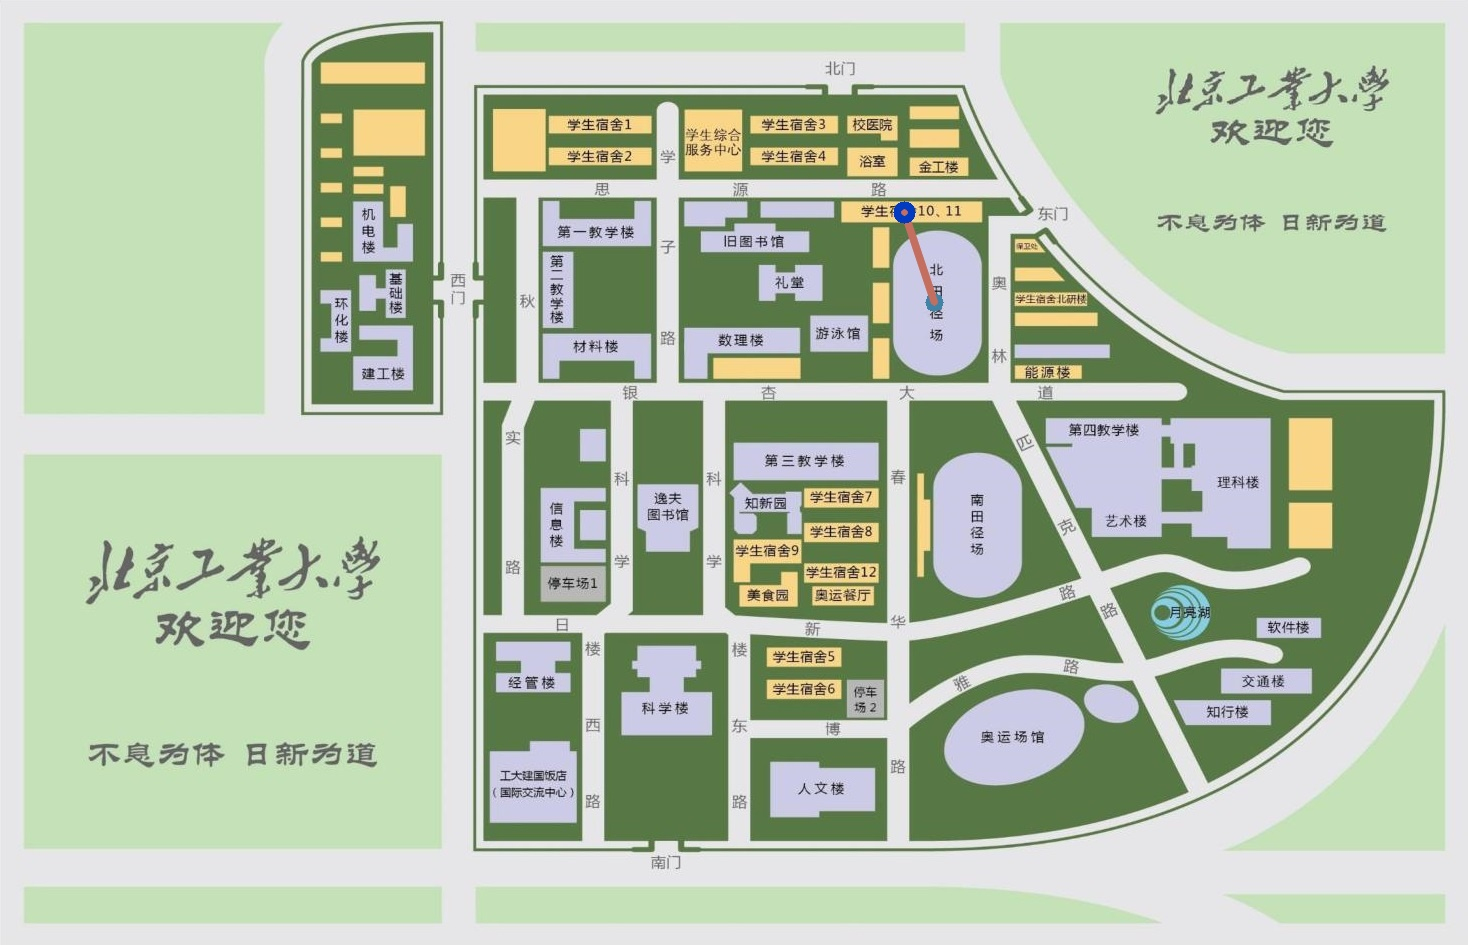
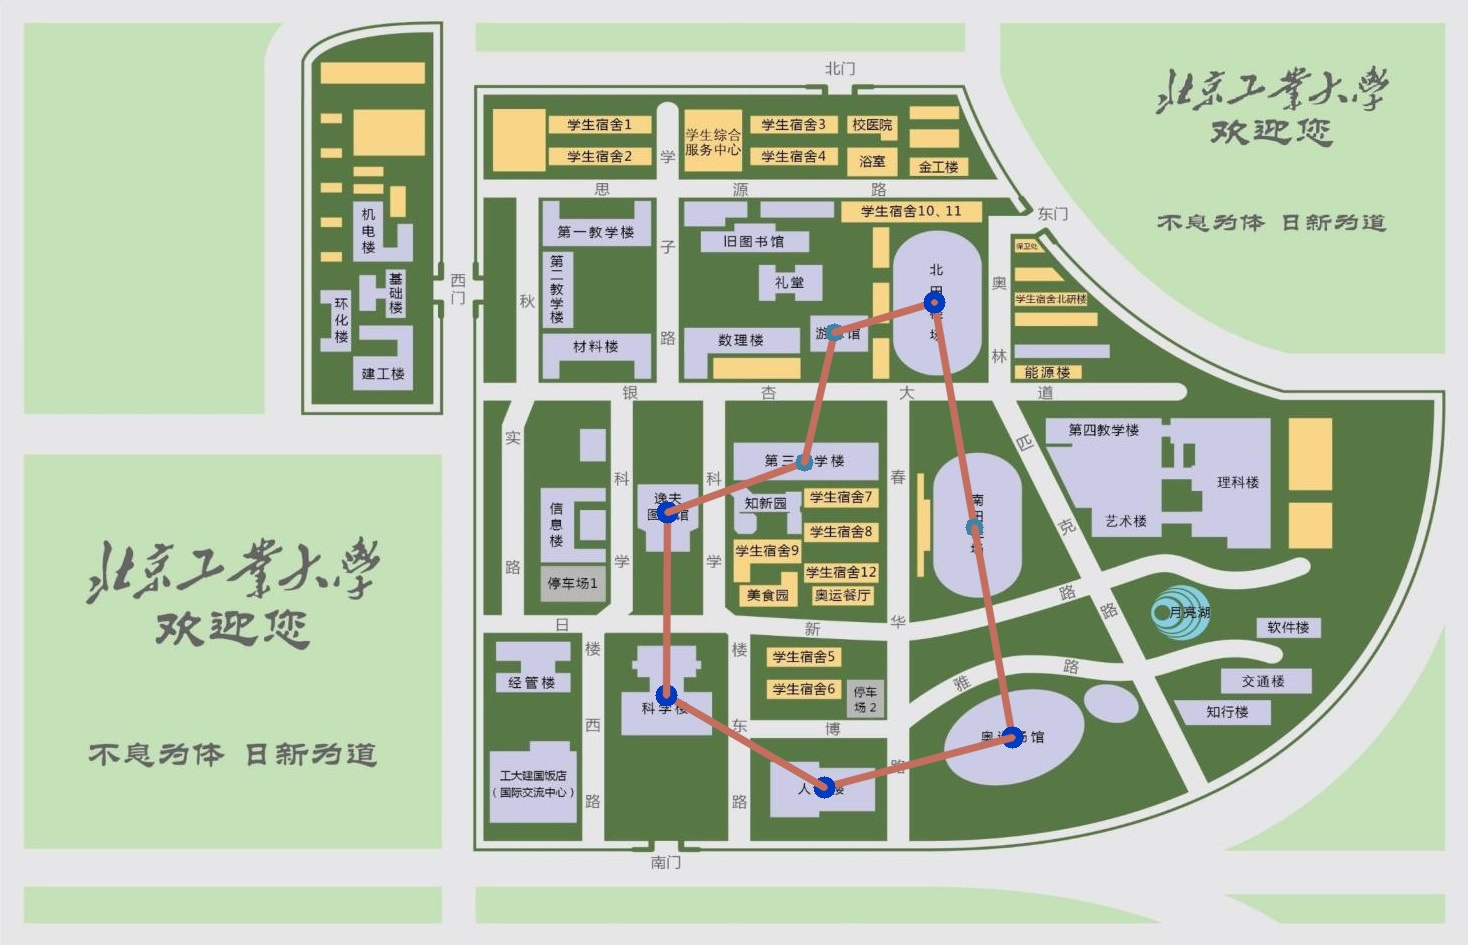
实现Bubble随优化路线而改变

diff --git a/code/widget.py b/code/widget.py
@@ -877,16 +877,26 @@ class MainWindow(QWidget):
 
     #TODO fun
     def BetterRoad(self):
+        self.cost_best = 1e9
+        threading_list = []
         for item in self.selected_pos:
+            print("new")
             t = threading.Thread(target = self.CalculateBetter,args=(item,))
             t.start()
-        print("111")
+            threading_list.append(t)
+
+        for t in threading_list:
+            t.join()
+        self.Main_text = "已为您智能略去目的地："
+
+        exec(f"text = self.A{self.del_pos}.toolTip()")
+        exec("self.Main_text += text ")
+        self.MainText.setText(self.Main_text)
+
         d = DrawRoad(self.AddofFigure)
-        print("222")
         d.DrawImage(self.entire_road_best,self.simple_road_best)
-        print("333")
         self.schoolmap.setPixmap(QPixmap("../images/school_map_change.jpg"))
-        print("444")
+        exec(f"self.B{item}.close()")
         self.selected_pos.remove(self.del_pos)
 
     def CalculateBetter(self,item):
@@ -898,3 +908,4 @@ class MainWindow(QWidget):
             self.entire_road_best = entire_road
             self.del_pos = item
         self.tsp_backtrack.ClearAll()
+        print(f"{item}完成")
